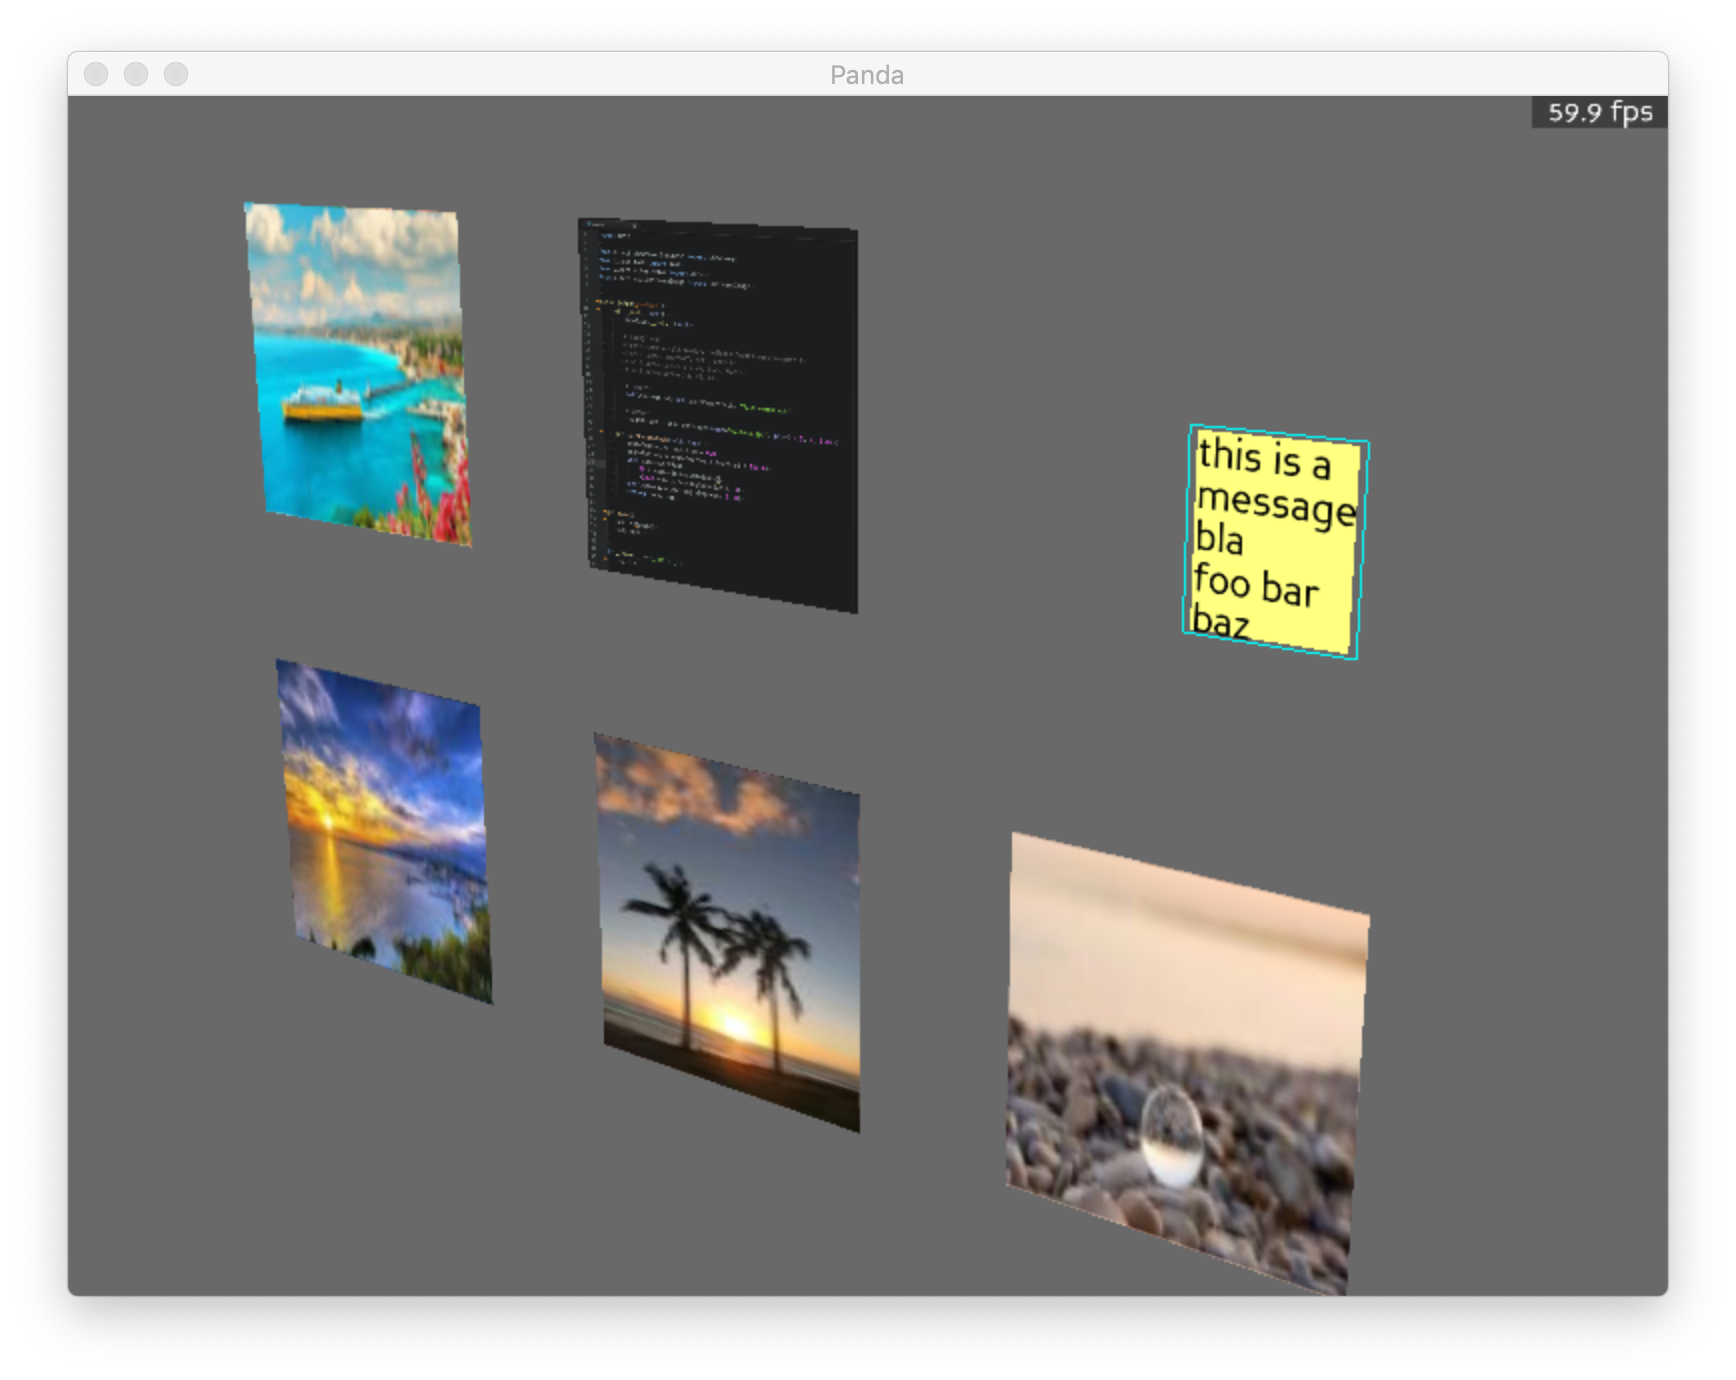
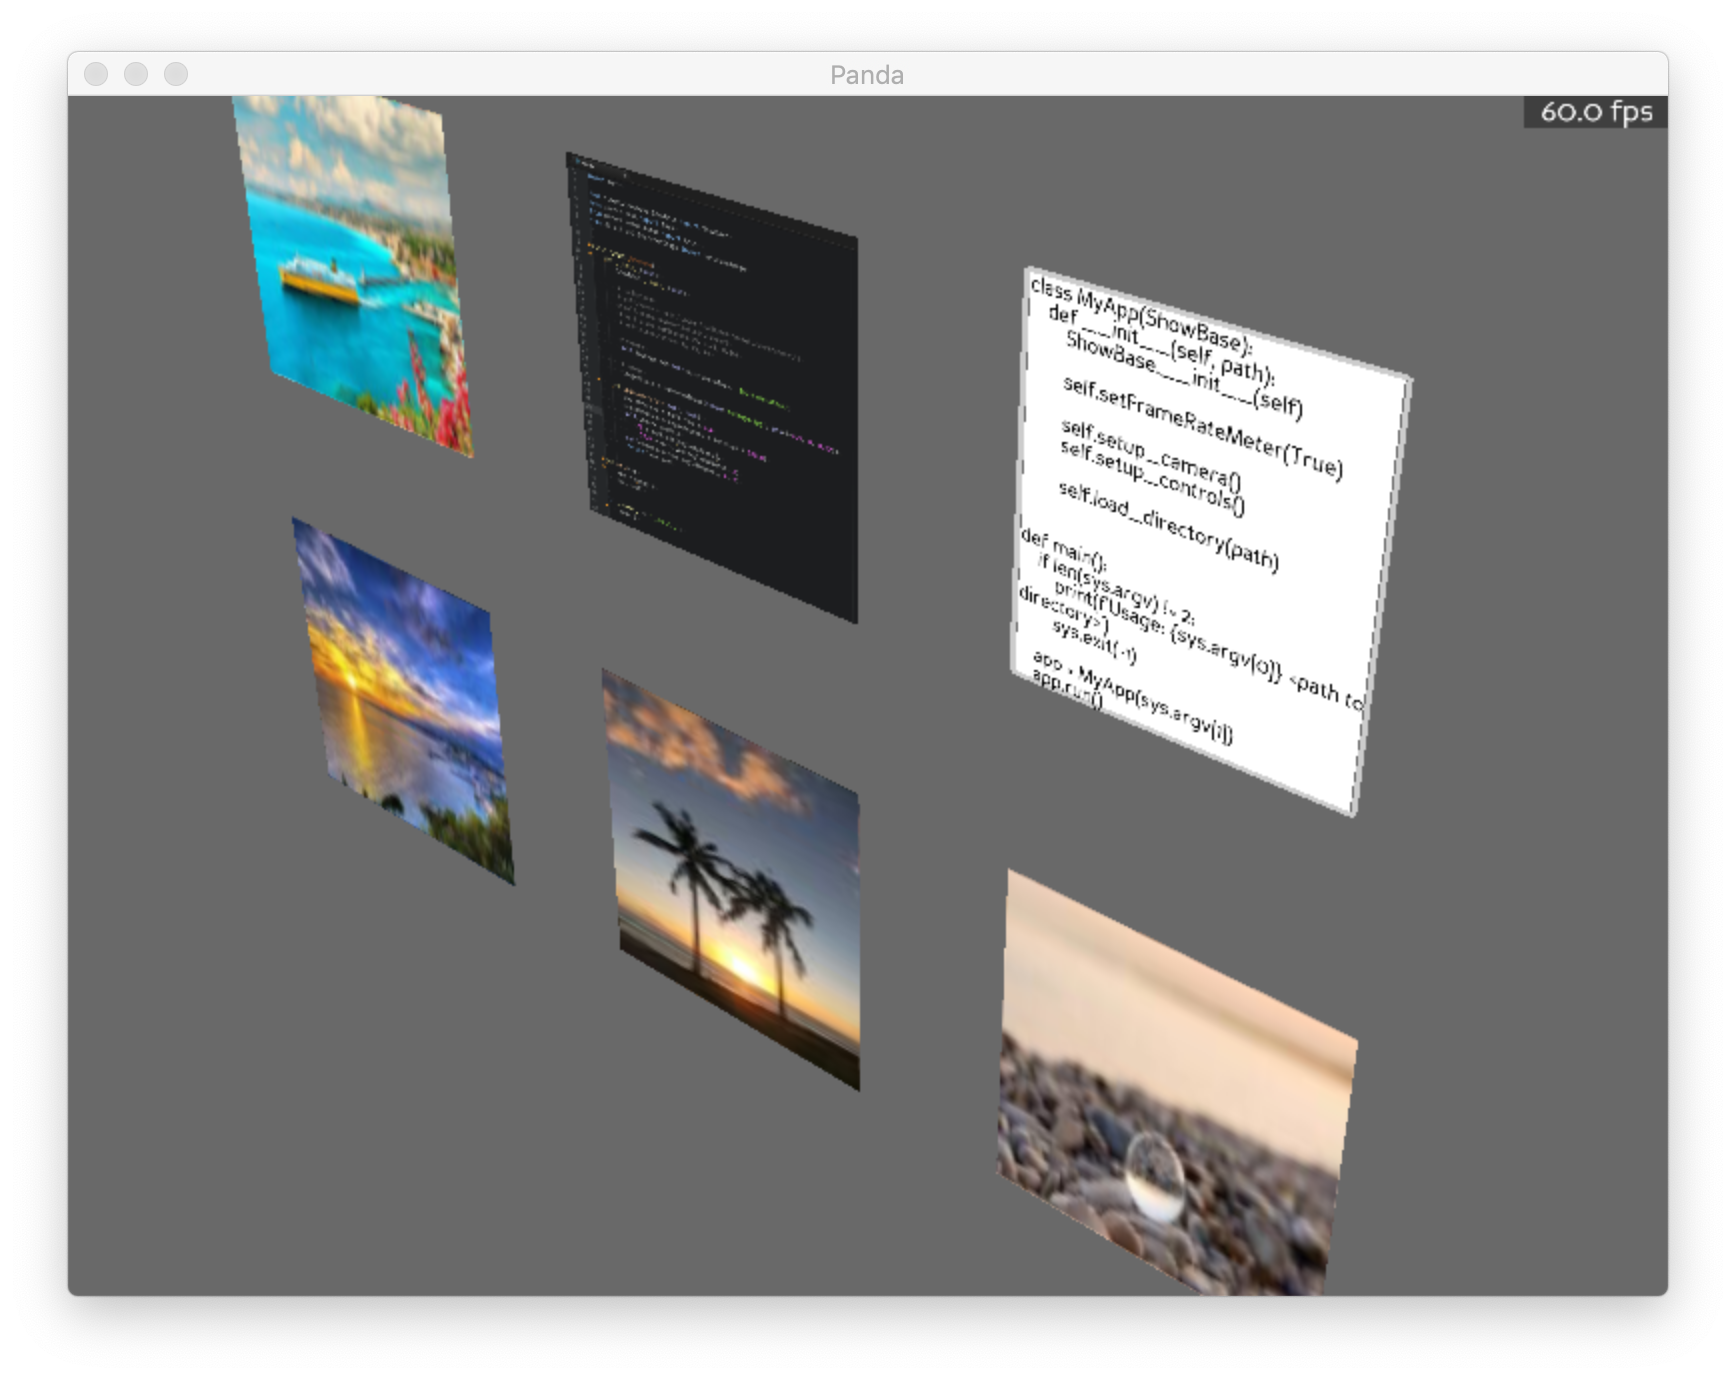
Improve appearance of text boxes

diff --git a/main.py b/main.py
@@ -81,20 +81,21 @@ class MyApp(ShowBase):
             elif type_ == 'text':
                 text = TextNode('text')
 
-                text.setWordwrap(5.0)
+                text.setWordwrap(20.0)
                 text.setTextColor(0, 0, 0, 1)
 
-                text.setFrameColor(0, 1, 1, 1)
+                text.setFrameColor(.8, .8, .8, 1)
                 text.setFrameAsMargin(0.2, 0.2, 0.1, 0.1)
+                text.setFrameLineWidth(3)
 
-                text.setCardColor(1, 1, 0.5, 1)
+                text.setCardColor(1, 1, 1, 1)
                 text.setCardAsMargin(0, 0, 0, 0)
                 text.setCardDecal(True)
 
                 textNodePath = self.render.attachNewNode(text)
                 textNodePath.setTwoSided(True)
-                textNodePath.setScale(0.2)
-                textNodePath.setPos(x, 0, y)
+                textNodePath.setScale(0.1)
+                textNodePath.setPos(x-1, 0, y+1)
 
                 with open(entry.path) as fd:
                     text.setText(fd.read())
